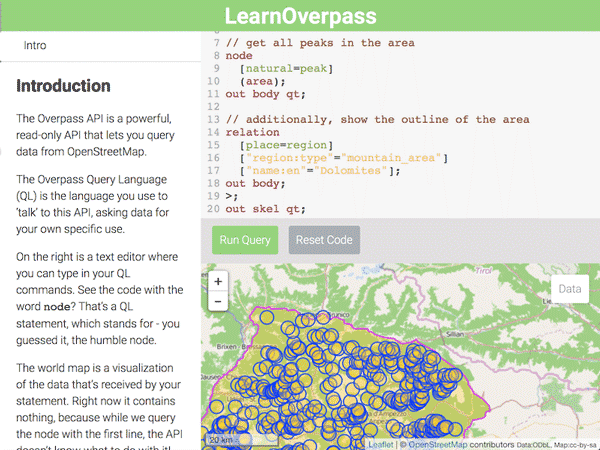
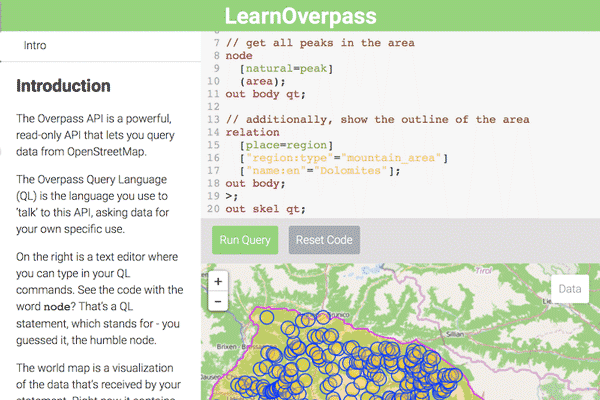
docs: Clean up and align Showcase thumbnail images
Some of the thumbnails in Showcase were out of place
because of several irregularly sized thumbnails,
and some of them almost 300KB in filesize.

Resize them all to 600x400 (pixels), and use the `-tn.png`
suffix.

When necessary, the website snapshot is re-captured using
gnome-web-photo.  Then, the following commands (or a combination
thereof) are used to crop and resize the image into a thumbnail,
and to reduce its filesize:

    $ convert example.png -crop 900x600+0+0 \
                          -filter Lanczos2Sharp -distort Resize 600x400 \
                          example-tn.png
    $ pngquant --nofs -v --speed 1 --quality 65-80 example-tn.png
    $ optipng -o7 -zm1-9 example-tn-or8.png
    $ mv example-tn-or8.png example-tn.png

diff --git a/docs/content/showcase/scottcwilson.md b/docs/content/showcase/scottcwilson.md
@@ -8,7 +8,7 @@ sourceLink: https://github.com/scottcwilson/hugosite
 tags:
 - personal
 - blog
-thumbnail: /img/scottcwilson.jpg
+thumbnail: /img/scottcwilson-tn.png
 title: scottcwilson.com
 ---
 

diff --git a/docs/content/showcase/samuelbe.md b/docs/content/showcase/samuelbe.md
@@ -8,7 +8,7 @@ sourceLink: https://github.com/SamuelDebruyn/sa.muel.be-hugo
 tags:
 - personal
 - blog
-thumbnail: /img/samuelbe.png
+thumbnail: /img/samuelbe-tn.png
 title: sa.muel.be
 ---
 

diff --git a/docs/content/showcase/thehome.md b/docs/content/showcase/thehome.md
@@ -8,7 +8,7 @@ sourceLink: "https://github.com/tomhelmer/website-source"
 tags:
 - personal
 - blog
-thumbnail: /img/thehome.png
+thumbnail: /img/thehome-tn.png
 title: thehome.dk
 ---
 

diff --git a/docs/content/showcase/rick-cogley-info.md b/docs/content/showcase/rick-cogley-info.md
@@ -10,6 +10,6 @@ tags:
 - blog
 - rickcogley
 - japan
-thumbnail: /img/rick_cogley_info_tn.png
+thumbnail: /img/rick_cogley_info-tn.png
 title: rick.cogley.info
 ---

diff --git a/docs/content/showcase/yslow-rules.md b/docs/content/showcase/yslow-rules.md
@@ -9,7 +9,7 @@ tags:
 - community
 - documentation
 - translation
-thumbnail: /img/yslow-rules.png
+thumbnail: /img/yslow-rules-tn.png
 title: YSlow Rules
 ---
 

diff --git a/docs/content/showcase/vamp.md b/docs/content/showcase/vamp.md
@@ -9,7 +9,7 @@ tags:
 - documentation
 - company
 - api
-thumbnail: /img/vamp_landingpage.png
+thumbnail: /img/vamp_landingpage-tn.png
 title: Vamp.io
 ---
 

diff --git a/docs/content/showcase/esolia-com.md b/docs/content/showcase/esolia-com.md
@@ -10,6 +10,6 @@ tags:
 - esolia
 - rickcogley
 - japan
-thumbnail: /img/esolia_com_tn.png
+thumbnail: /img/esolia_com-tn.png
 title: eSolia.com
 ---

diff --git a/docs/content/showcase/esolia-pro.md b/docs/content/showcase/esolia-pro.md
@@ -10,6 +10,6 @@ tags:
 - esolia
 - rickcogley
 - japan
-thumbnail: /img/esolia_pro_tn.png
+thumbnail: /img/esolia_pro-tn.png
 title: eSolia.pro
 ---
